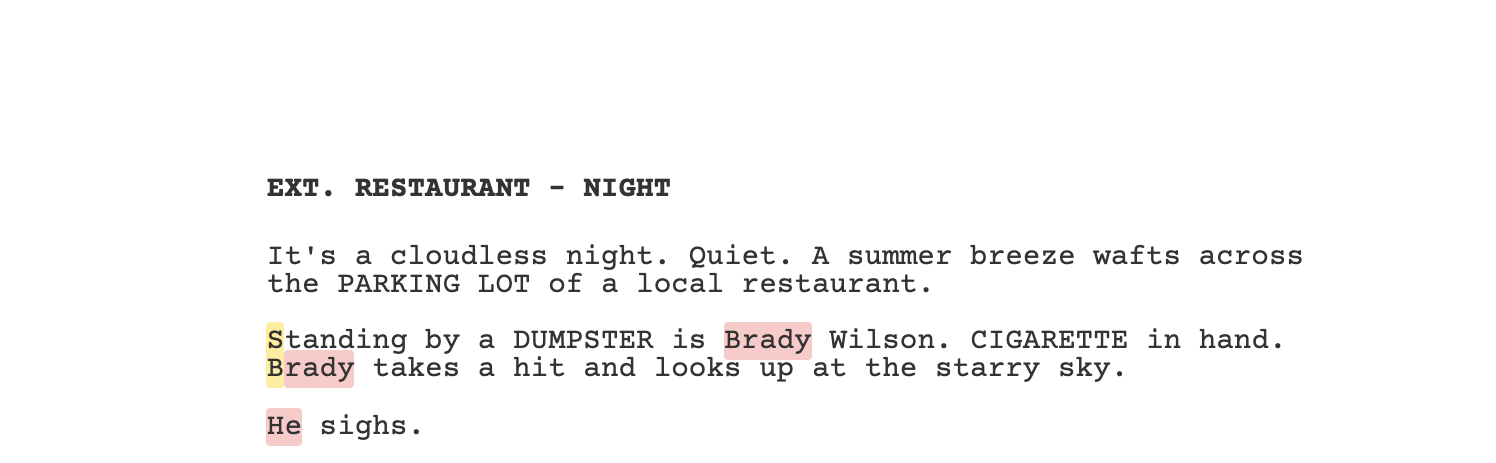
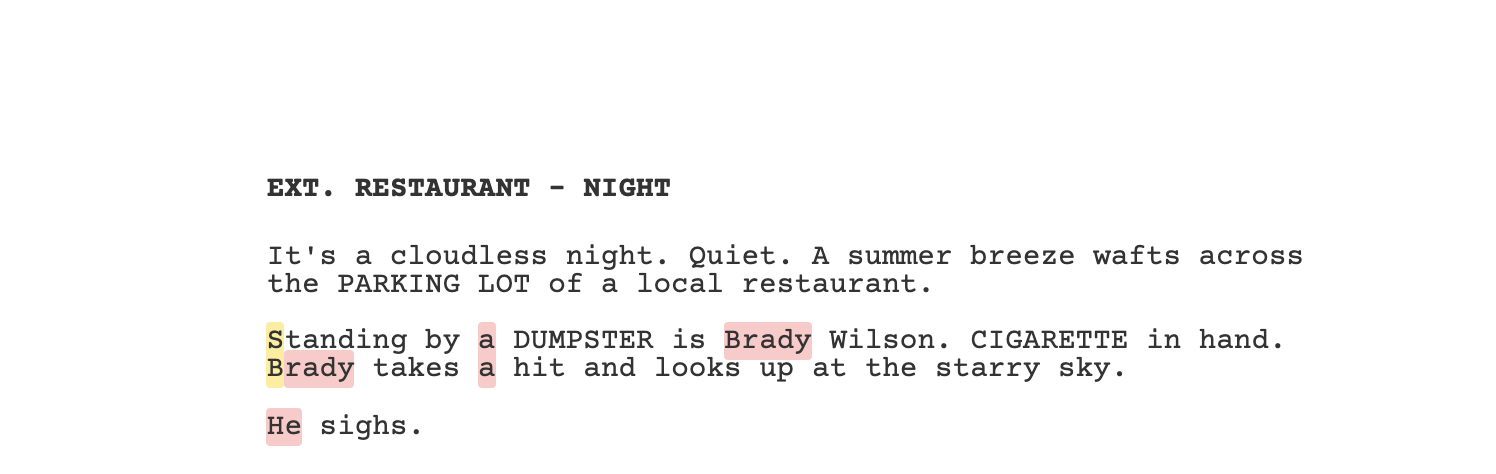
action component updated

Changed region(s): [[0.1537, 0.6652, 0.861, 0.9676], [0.1845, 0.514, 0.8917, 0.635], [0.1537, 0.3629, 0.4612, 0.4233]]

diff --git a/src/components/main/screentour/components/action/index.js b/src/components/main/screentour/components/action/index.js
@@ -39,96 +39,172 @@ function Action(props) {
                 <br></br>
                 <br></br>
                     <div className='blogSubHeader'>DESCRIPTION</div>
-                    Let's take our previous example of the <span id='courrier'>BURGER JOINT</span>, but, for simplicity, we'll change it to <span id='courrier'>RESTAURANT</span> (p.s.: basic locations help your screengrade too).
+                    Let's take our previous example of a "<span id='courrier'>BURGER JOINT</span>", but, for simplicity, we'll change it to "<span id='courrier'>RESTAURANT</span>" (p.s.: basic locations help out your screengrade too).
                 <br></br>
-                    See, sluglines are your sets. Everything that goes between two of them is a scene. And every scene should start with some description. It looks ugly to go straight from slug to dialogue without a little bit of something in between. {/* maybe have INTERCUTS hyperlink */} So, what's happening?
                 <br></br>
-                    <img className='picture' src={longDescription}  alt='long description' width={'250px'}/>
+                    See, sluglines are your sets. Everything that goes between two of them is a scene. And every scene should start with some description. It looks ugly to go straight from slug to dialogue without a little something in between. {/* maybe have INTERCUTS hyperlink */} So, what's happening?
+                <br></br>
+                <br></br>
+                    <div className='pictureContainer'>
+                        <img className='picture' src={longDescription}  alt='long description' width={'250px'}/>
+                    </div>
                 <br></br>
                     There are a few issues with this description. Let's break them down:
                 <br></br>
-                    <img className='picture' src={longDescriptionWithEdits} alt='long description with extra stuff crossed out' width={'250px'}/>
+                <br></br>
+                    <div className='pictureContainer'>
+                        <img className='picture' src={longDescriptionWithEdits} alt='long description with extra stuff crossed out' width={'250px'}/>
+                    </div>
                 <br></br>
                     1. For starters, it's too long -- like I said before, trim the fat. Any lines I crossed out were unnecesasary. This isn't a Russian novel, we don't need vivid imagery. Keep it simple. Obviously if you're writing a sci-fi piece set in 3022, some of your scenes will likely need extensive explanations, but if that's not the case, cut to the chase. One-word sentences are fine too. Good, even. They can add a subtle intensity to your description and keep the reader wanting more. Hopefully.
                 <br></br>
-                    2. The words highlighted in <span id='yellow'>yellow</span> are <span id='courrier'>PROPS</span> and should be in <span id='courrier'>ALL CAPS</span> at first mention. This lets the reader know these items <span id='italic'>need</span> to be in the script, and are integral to the scene. Any prop that you put in your script should be plot related. Props that help establish tone are for the <a href='https://en.m.wikipedia.org/wiki/Property_master'>prop master</a> to decide on -- assuming you sell your script. Similar to character intros (as we'll see below) once introduced, they need not remain <span id='courrier'>CAPPED</span>.
                 <br></br>
-                    3. <span id='red'><span id='courrier'>Marlboro Red</span></span> is <span id='red'>red</span> because it's product placement. You're the screenwriter, not the producer. Your job is to say what he's smoking, not what brand. <span id='courrier'>Marlboro Red</span> is just <span id='courrier'>CIGARETTE</span> -- remember props are in caps the first time mentioned. Note: This doesn't apply for scripts whose plots must include certain products (i.e., car movies or era pieces) although writing a <a href='glossary/spec'>spec</a> that hinges on specific merchandies is a risky move better left to those who can make it happen. Because, let's face it, me and you probably can't.
+                    2. The words highlighted in <span id='yellow'>yellow</span> are <span id='courrier'>PROPS</span> and should be in <span id='courrier'>ALL CAPS</span> at first mention. This lets the reader know these items need to be in the script, and are integral to the scene. 
+                <br></br>
+                <br></br>
+                    Note: any prop that you put in your script <span id='italic'>should</span> be plot related. Props that help establish tone are for the <a href='https://en.m.wikipedia.org/wiki/Property_master'>prop master</a> to decide on -- assuming you sell your script. Similar to character intros (as we'll see below) once introduced, they need not remain <span id='courrier'>CAPPED</span>.
+                <br></br>
+                <br></br>
+                    3. "<span id='red'><span id='courrier'>Marlboro Red</span></span>" is <span id='red'>red</span> because it's product placement. You're the screenwriter, not the producer. Your job is to say what he's smoking, not what brand. "<span id='courrier'>Marlboro Red</span>" is just "<span id='courrier'>CIGARETTE</span>" -- remember props are in caps the first time mentioned. 
+                <br></br>
+                <br></br>
+                    Note #2: This doesn't apply for scripts whose plots must include certain products (i.e., car movies or era pieces) although writing a spec<sup>1</sup> that hinges on specific merchandies is a risky move better left to those who can make it happen. Because, let's face it, me and you probably can't.
+                <br></br>
                 <br></br>
                     Here we are with a bit more tweaking:
                 <br></br>
-                    <img className='picture' src={finishedLongDescription} alt='long description with extra stuff crossed out' width={'250px'}/>
+                <br></br>
+                    <div className='pictureContainer'>
+                        <img className='picture' src={finishedLongDescription} alt='long description with extra stuff crossed out' width={'250px'}/>
+                    </div>
                 <br></br>
                     Not to shabby, huh. Okay. Now, let's fix that intro.
                 <br></br>
                 <br></br>
-                    <div className='screengradeHeader' onClick={show}>CLICK HERE TO IMPROVE THE SCREENGRADE</div>
+                    {!handleShow
+                        ? <div className='screengradeHeader' onClick={show}>CLICK HERE TO IMPROVE THE SCREENGRADE</div>
+                        : <div className='closeButton' onClick={close}>CLOSE</div>    
+                        } 
                     {handleShow &&
                             <div className='screengradeBlogText'>
-                            <div id='blogTextFirstLine'>
-                                <div>For a cleaner look:</div>
-                                <div className='closeButton' id='courrier' onClick={close}>CLOSE</div>
-                            </div>
-                    <br></br>
-                            <img className='picture' src={screengradeLongDescriptionWithEdits} alt='long description with 
+                                For a cleaner look:
+                            <div className='screengradePictureContainer'>
+                                <img className='picture' src={screengradeLongDescriptionWithEdits} alt='long description with 
                             extra stuff crossed out' width={'250px'}/>
+                            </div>
                             {/* fix the stacked caps for 'a' */}
+                            3. Long paragraphs are bad, just like long sentences are. Better to have three seperate blocks<sup>2</sup> for a total of five lines (seven including white lines<sup>3</sup>) than have one block for a total of five lines.
                     <br></br>
-                            3. Long paragraphs are bad, just like long sentences are. Better to have three seperate <a href='glossary/blocks'>blocks</a> for a total of five lines (seven including <a href='glossary/whitelines'>white lines</a>) than one block for a total of five lines. Don't be afraid to break that bad boy up.
                     <br></br>
-                            4. The <span id='yellow'><span id='courrier'>S</span></span> and <span id='yellow'><span id='courrier'>B</span></span> are highlighted because <a href='glossary/parallelcaps'>parallel capitalized letters</a> (or stacked caps) are offputting. Now, even though only the <span id='yellow'><span id='courrier'>B</span></span> is actually problomatic, I highlighted both letters to shed more light on the issue. Know that this applies whether they're at the start of the line, end of the line, or anywhere in between. You may think I'm nuts but I've done my research and readers do respond better to scripts that minamize stacked caps. Worse than that, is doing it with the same capitalized letter. Worse even than that (see!) is with full words. Personally, I wouldn't even start succeeding paragraphs with the same word or letter either. But, hey, that's just me. Anyways, the fix here is easy -- we just add the word <span id='courrier'>"large"</span> before <span id='courrier'>DUMPSTER</span>
+                            4. The "<span id='yellow'><span id='courrier'>S</span></span>" and "<span id='yellow'><span id='courrier'>B</span></span>" are highlighted because parallel capitalized letters<sup>4</sup> (or stacked caps) are offputting. Now, even though only the "<span id='yellow'><span id='courrier'>B</span></span>" is actually problomatic, I highlighted both letters to illuminate on the issue. 
                     <br></br>
-                            5. Finally, for the <span id='red'><span id='courrier'>Brady</span></span>'s in <span id='red'>red</span>. Similar to 3., you should refrain from using the same pronoun or name twice in a row. Try and alternate between the two as seen in the corrected version here:
                     <br></br>
+                            5. Similarly, the two "<span id='red'><span id='courrier'>a</span></span>"s are equally (if not more) problomatic because they are the same letter. Whether capitalized or not, stacked letters<sup>5</sup> are never good for your screengrade.
+                    <br></br>
+                    <br></br>
+                            Note: 4. and 5. apply whether they appear at the start of the line, end of the line, or anywhere in between. You may think it's nuts, but I've done my research and readers do respond better to scripts that minamize stacked caps and stacked letters<sup>*</sup> 
+                    <br></br>
+                    <br></br>
+                            Worse than stacking individual letters is doing it with full words, which is just horrifying, and something only AI should be able to get away with. Personally, I wouldn't even start succeeding paragraphs with the same word or letter either. But, hey, that's just me. 
+                    <br></br>
+                    <br></br>
+                            Anyways, the fix here is easy -- we just add the word <span id='courrier'>"large"</span> before "<span id='courrier'>DUMPSTER</span>" as you'll see shortly.
+                    <br></br>
+                    <br></br>        
+                            5. Finally, for the <span id='red'><span id='courrier'>Brady</span></span>'s in <span id='red'>red</span>. Similar to stacking letters, you should refrain from using the same pronoun or name twice in a row. Try and alternate between the two as seen in the corrected version here:
+                    <br></br>
+                        <div className='screengradePictureContainer'>
                             <img className='picture' src={descriptionFixed} alt='description 
                             fixed' width={'250px'}/>
+                        </div>
+                    </div>
+                         }
                     <br></br>
-                            </div>
-                         } 
+                    <br></br>
                     <div className='blogSubHeader'>INTROS</div>
-                The number one rule for introducing a <span id='courrier'>CHARACTER</span> is that first time they're mentioned, just like <span id='courrier'>PROPS</span>, it must be in <span id='courrier'>ALL CAPS</span>. Keeping that in mind, there are two acceptable ways to go about introducing your character after that, none of which were demonstrated in our scene. The first is with age, if needed. The second without:
+                The number one rule for introducing a <span id='courrier'>CHARACTER</span> is that first time they're mentioned, just like <span id='courrier'>PROPS</span>, it must be in <span id='courrier'>ALL CAPS</span>. 
             <br></br>
-                <img className='picture' src={withAge}  alt='with age' width={'250px'}/>
-                <img className='picture' src={withoutAge}  alt='with age' width={'250px'}/>
             <br></br>
-                Since by us, <span id='courrier'>Brady</span> is our main character, we'll include his age. You may be wondering:  <span id='italic'>"Why do we need his age when it explicitly says he's a</span> <span id='courrier'>high school junior</span><span id='italic'>?"</span> This is true, we don't really need it. But there will be times when you have a main character who's out of school, and whose age won't be part of their charatcer description. In those cases you could write <span id='courrier'>(20s)</span>, <span id='courrier'>(30s)</span>, <span id='courrier'>(etc)</span>. Personally, I always introduce characters with a parenthetical (age) because it looks cleaner than using commas galore.
+                Keeping that in mind, there are two acceptable ways to go about introducing your character after that, none of which were demonstrated in our scene. 
             <br></br>
-                As for the <span id='courrier'>ALL CAPS</span>, remember this only applies to the first time a character is introduced, and only to the <a href='glossary/scriptname'>script name</a> of said character (notice how <span id='courrier'>Wilson</span> is written). So when our character is introduced, or has dialouge, he'll be <span id='courrier'>BRADY</span> ( character names over dialouge are in <span id='courrier'>ALL CAPS</span> too). However in every other description going forward he'll just be plain old <span id='courrier'>Brady</span>. This doesn't mean that other characters can't call <span id='courrier'>Brady</span> some kind of nickname, just that when we write about him throughout the script, his name must stay consistent for the sake of the reader. I'll get to a possible exception to this rule in the next section. 
             <br></br>
-                This is where we're at right now:
+                The first is with age, if needed. The second without:
             <br></br>
-                <img className='picture' src={withAge}  alt='with age' width={'250px'}/>
+            <br></br>
+                <div className='pictureContainer'>
+                    <br></br>
+                        <div className='pictureLabel'>WITH</div>
+                        <img className='picture' src={withAge}  alt='with age' width={'250px'}/>
+                    <br></br>
+                        <div className='pictureLabel'>WITHOUT</div>
+                        <img className='picture' src={withoutAge}  alt='with age' width={'250px'}/>
                 </div>
             <br></br>
-                <div className='screengradeHeader' onClick={showSecond}>CLICK HERE FOR SCREENGRADE VERSION</div>
+                Since by us, "<span id='courrier'>Brady</span>" is our main character, we'll include his age. 
+            <br></br>
+            <br></br>       
+                You may be wondering:  <span id='italic'>Why do we need his age when it explicitly says he's a high school junior?</span> 
+            <br></br>
+            <br></br>
+                This is true, we don't really need it. But, there will be times when you have a main character who's out of school, and whose age won't be part of their charatcer description. In those cases you could write <span id='courrier'>(20s)</span>, <span id='courrier'>(30s)</span>, etc. 
+            <br></br>
+            <br></br>
+                Personally, I always introduce characters with a parenthetical age because it looks cleaner than using commas galore.
+            <br></br>
+            <br></br>
+                As for the <span id='courrier'>ALL CAPS</span>, remember this only applies to the first time a character is introduced, and only to the script name<sup>2</sup> of said character (notice how "<span id='courrier'>Wilson</span>" is written). 
+            <br></br>
+            <br></br>
+                This means that when our character is introduced, or has dialouge, he'll be "<span id='courrier'>BRADY</span>" (character names over dialouge are in <span id='courrier'>ALL CAPS</span> too) however, in every other description going forward, he'll just be plain old "<span id='courrier'>Brady</span>". 
+            <br></br>
+            <br></br>
+                Although, this doesn't mean that other characters can't call "<span id='courrier'>Brady</span>" some kind of nickname, just that when we write about him throughout the script, his name must stay consistent for the sake of the reader -- I'll get to a possible exception to this rule in the next section. 
+            <br></br>
+            <br></br>
+                Where we're at right now:
+            <br></br>
+            <br></br>
+                <div className='pictureContainer'>
+                    <img className='picture' src={withAge}  alt='with age' width={'250px'}/>
+                </div>
+                </div>
+            <br></br>
+            <br></br>
+                {!handleShowSecond
+                        ? <div className='screengradeHeader' onClick={showSecond}>CLICK HERE FOR SCREENGRADE VERSION</div>
+                        : <div className='closeButton' onClick={closeSecond}>CLOSE</div>    
+                        } 
                 {handleShowSecond &&
                     <div className='screengradeBlogText'>
                         It's always better for your screengrade to include the age:
-                        <div id='blogTextFirstLine'>   
-                        <div className='closeButton' id='courrier' onClick={closeSecond}>CLOSE</div>
-                        
                     <br></br>
-                        <img className='picture' src={screengradeCleanWithAge}  alt='with age' width={'250px'}/>
-                    </div>
-                    <br></br>
+                        <div className='screengradePictureContainer'>
+                            <img className='picture' src={screengradeCleanWithAge}  alt='with age' width={'250px'}/>
+                        </div>
                         Uh oh --
                     <br></br>
-                        <img className='picture' src={screengradeCleanWithAgeAndHighlights}  alt='with age' width={'250px'}/>
+                        <div className='screengradePictureContainer'>
+                            <img className='picture' src={screengradeCleanWithAgeAndHighlights}  alt='with age' width={'250px'}/>
+                        </div>
+                        The <span id='yellow'>yellow</span> letters here are a less severe version of stacked capitalization, as we saw earlier, where the stacked letters are both in <span id='courrier'>CAPS</span>, but different. 
                     <br></br>
-                        The <span id='yellow'>yellow</span> letters are a less severe version of parallel capitalization, where parellel letters are both in <span id='courrier'>CAPS</span>, but different. Though less severe is still severe so let's just change the line to "<span id='courrier'>In his hand is a CIGARETTE</span>" --
                     <br></br>
-                        <img className='picture' src={hh}  alt='with age' width={'250px'}/>
+                        Though less severe is still severe so let's just change the line to "<span id='courrier'>In his hand is a CIGARETTE</span>" --
                     <br></br>
+                        <div className='screengradePictureContainer'>
+                            <img className='picture' src={hh}  alt='with age' width={'250px'}/>
+                        </div>
                         Another quick adjustment --
                     <br></br>
-                        <img className='picture' src={clean}  alt='with age' width={'250px'}/>
-                    <br></br>
+                        <div className='screengradePictureContainer'>
+                            <img className='picture' src={clean}  alt='with age' width={'250px'}/>
+                        </div>
                         There we go. Just switch out "<span id='courrier'>hit</span>" with "<span id='courrier'>drag</span>" and we're golden. See? Not so difficult. Screengrading on the go will become second nature to you in no time.
                     </div>
                 }   
             <div className='blogFooter'>
-                <a href="slugs" id='courrier'>BACK</a>
                 <a href="dialogue" id='courrier'>NEXT</a>
+                <a href="slugs" id='courrier'>BACK</a>
            </div>
         </div>
     );

diff --git a/src/components/main/style.index.css b/src/components/main/style.index.css
@@ -19,6 +19,18 @@
     border-bottom: 1px solid black;
 }
 
+.blogSubHeader {
+    font-family: 'Courier Final Draft', Courier, monospace;
+    font-size: 15pt;
+    margin-bottom: 20px;
+    display: flex;
+    justify-content: center;
+    border-bottom: 1px solid black;
+    width: fit-content;
+    margin-left: auto;
+    margin-right: auto;
+}
+
 .screengradeContainer {
     display: flex;
     justify-content: center;
@@ -79,6 +91,17 @@ sup {
     width: 600px;
     margin-bottom: 20px;
     margin-top: 20px;
+}
+
+.pictureLabel {
+    font-family: 'Courier Final Draft', Courier, monospace;
+    font-size: 13pt;
+    display: flex;
+    justify-content: center;
+    border-bottom: 1px solid black;
+    width: fit-content;
+    margin-left: auto;
+    margin-right: auto;
 }
 
 .blogFooter {

diff --git a/src/App.css b/src/App.css
@@ -7,7 +7,7 @@
   font-size: 13pt;
 }
 
-.mainLink:hover {background-color: #f1f1f1}
+.mainLink:hover, a:hover {background-color: #f1f1f1}
 
 #bold {
   font-weight: bold;
